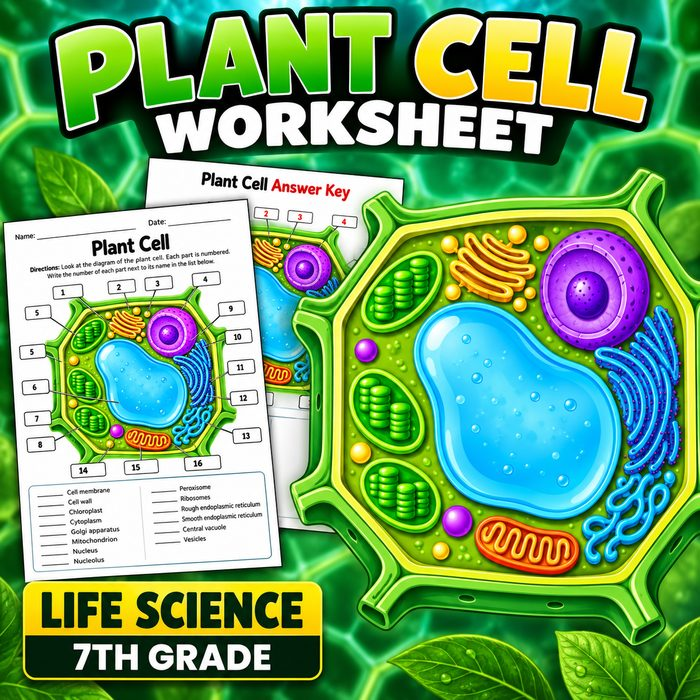
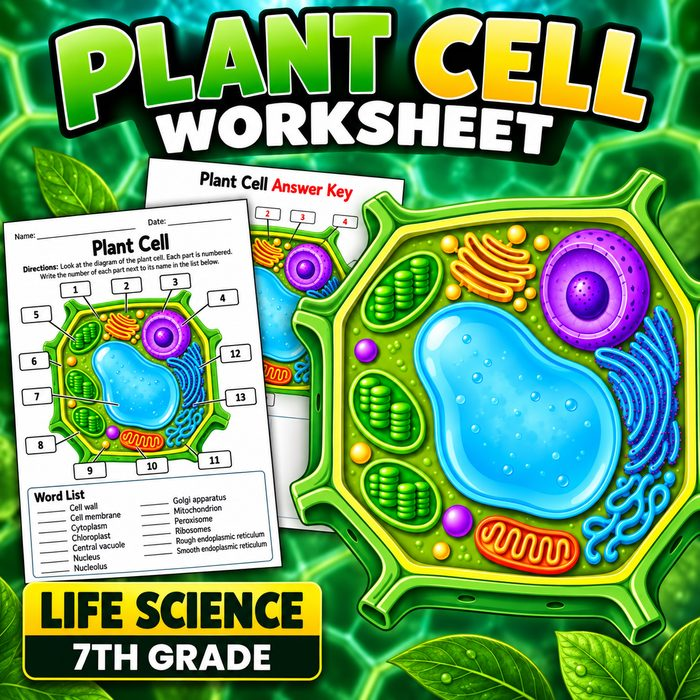
Plant cell: regenerated cover that matches the sheet (13 boxes)
Claude-Session: https://claude.ai/code/session_01NBQdFda2AMfPpFqip9oBhn

diff --git a/tools/worksheets.js b/tools/worksheets.js
@@ -365,9 +365,9 @@ const SHEETS = [
    plantcell/build_sheet.py: 13 parts, numbers scrambled so they do not follow
    the word list. The PDF lives OUTSIDE the repo (Desktop\Temp Screenshots\
    Plant_Cell_Worksheet_Final.pdf) and in R2 at paid/plant-cell.pdf.
-   thumb.jpg is Paul's ChatGPT cover (2026-09-10, 1:26 PM image).
-   ⚠ Its drawn worksheet mockup shows 16 boxes and "Vesicles"; the real sheet
-   has 13 parts and no vesicles. Flagged to Paul the same day, his call. */
+   thumb.jpg is Paul's ChatGPT cover, regenerated 2026-09-10 so its mockup
+   matches the sheet: 13 boxes, 13 words (the first draft showed 16 and a
+   "Vesicles" the sheet does not have). */
 {
   slug: "plant-cell", subject: "Science", grade: 7,
   kind: "paid-sheet", tagline: "Life Science",
